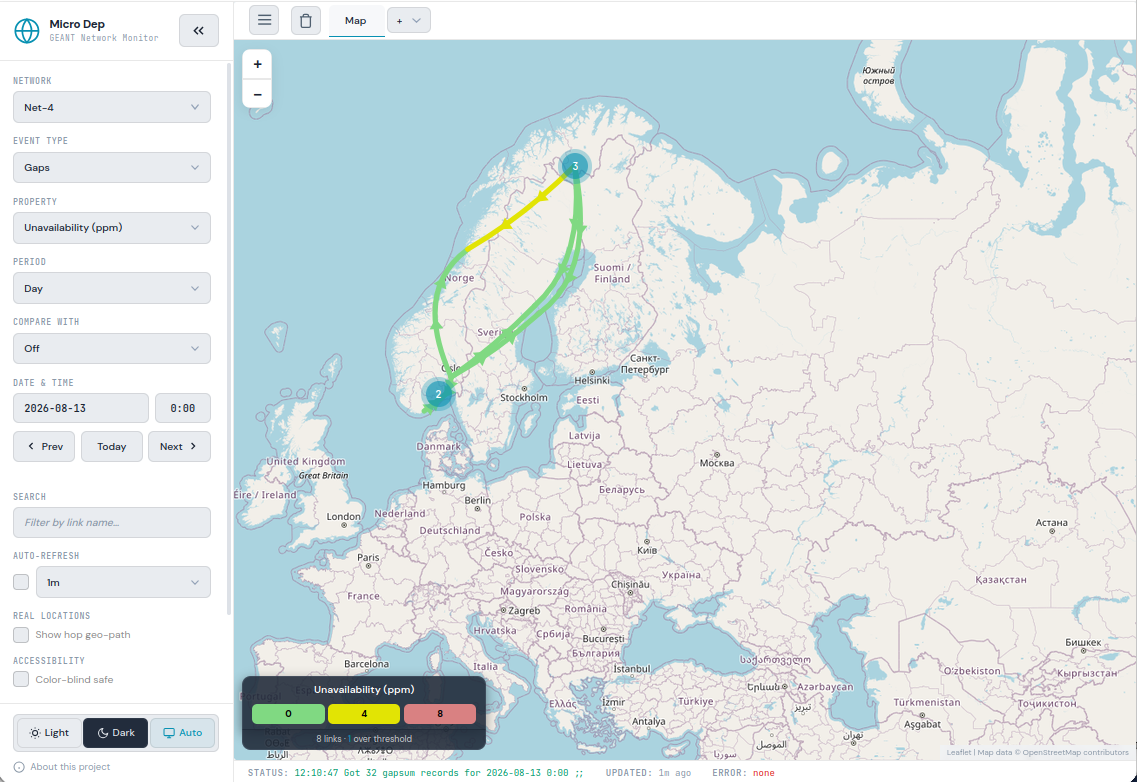
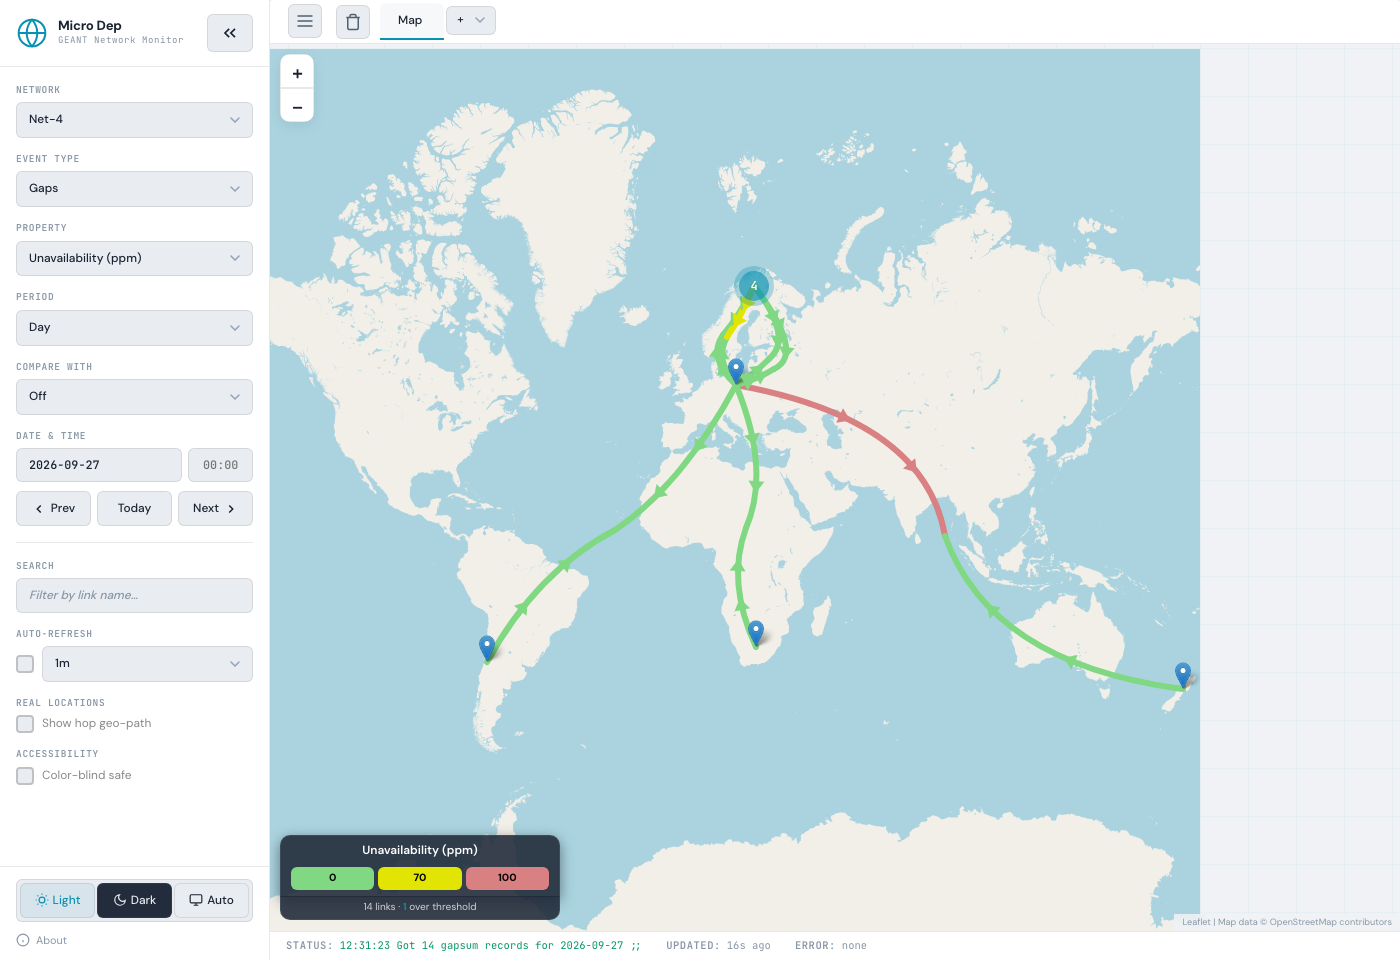
Microdep add-on: document the traceroute viewer as it stands, with new images
The viewer section still described four tabs and a legend that counted
observations. It now has six tabs, colour means the minimum round-trip
time a hop adds, and the shading that used to carry frequency has moved
to line width.

- Paths and Timeline, the two views added since the section was
  written, each get their own part, as does opening the viewer for a
  whole testpoint rather than one flow.
- Topology gains its layered layout, the grouped control column and the
  simple-view filtering that no longer cuts the graph in two.
- The conventions the views share - what colour and width mean, and what
  Full / Simple filters out - are stated once, above the tabs.

All images are retaken from a host measuring seven peers on four
continents, so the map shows a meshed topology with testpoints at their
real locations rather than a single country, and the viewer images show
the current interface.

diff --git a/addon_microdep.rst b/addon_microdep.rst
@@ -342,6 +342,8 @@ Testpoint hosts are place at their geo-coordinates (when available), and grey li
 
 Note that a flow line only indicates direction and endpoints of measurements. If the *show hop geo path* box is ticked in the navigation bar the map makes an attempt at drawing the actual geographic route taken by the flows.
 
+Clicking a testpoint rather than a flow line offers *Routes to all peers*, which opens the traceroute viewer for every flow from that host at once (see :ref:`addon_microdep_traceroute-tree`).
+
 .. _addon_microdep_summary-popup: 
 
 Summary popup window
@@ -374,44 +376,109 @@ Available tabs are:
   * **Missing**: Presents a table of flow peers where results from only one direction are reported. Note, this feature assumes that symmetric measurements are desired.
   * **Asymmetry**: Presents a table of *to-form* and *from-to* property values of the selected property together for comparison. 
   * **Summary**: Presents a table with all properties of selected event type for all flows in the topology, i.e. the same values available in *Link Detail* popup windows, but for all flows in one table.
-  * **Routes**: Opens a *Traceroute viewer* where collections of traceroutes for selected flows may be inspected. See :ref:`addon_microdep_traceroute-viewer`.
+  * **Routes**: Opens a *Traceroute viewer* where collections of traceroutes for selected flows may be inspected, one flow at a time or several at once. See :ref:`addon_microdep_traceroute-viewer`.
 
-.. _addon_microdep_traceroute-viewer: 
+.. _addon_microdep_traceroute-viewer:
 
 Traceroute viewer
 ^^^^^^^^^^^^^^^^^
 
 A graphical traceroute viewer is available to visualize and study the network topology being measured. To access the viewer either
+
   * Access *Link details* by clicking a flow line in the map and then the *Routes* button.
   * Select *Routes* in the tab menu (upper left corner) and then select which flow (peer) to visualize.
+  * Click a testpoint in the map and select *Routes to all peers* to see every route from that host at once (see :ref:`addon_microdep_traceroute-tree`).
 
-The viewer has its own tabs, a *Topology* tab, a *Hop stats* tab, a *Traceroute* tab and a *Docs* tab.
+The viewer has its own tabs: a *Topology* tab, a *Paths* tab, a *Timeline* tab, a *Hop stats* tab, a *Traceroute* tab and a *Docs* tab. The viewer opens on *Paths*, and the tab you leave it on is remembered for the next flow you open.
+
+All the views share two conventions. Line colour is the *minimum round-trip time the hop adds*, i.e. how much further away the next host is, on a log scale in the three bands hop lengths naturally fall into: below 1 ms for access networks, 1 to 10 ms for a core, above 10 ms for long haul. Line width is the number of traceroutes that took that link. A *Full* / *Simple* switch is available in the *Paths* and *Timeline* tabs, and as a pair of buttons in the *Topology* tab: *Simple* drops the hops that never answered and any host that answers again at the very next hop.
+
+Paths
+"""""
+
+.. image:: images/addon_microdep_traceroute-paths.png
+        :target: _images/addon_microdep_traceroute-paths.png
+        :scale: 20 %
+
+The **Paths** tab (image above) lays every traceroute of the period out by hop: one lane per hop number, the hosts seen at that hop side by side in the lane, and a ribbon between lanes for each link. The width of a ribbon is the number of traceroutes that took it, so the route most traffic follows is simply the thickest band, and the alternatives peel off and rejoin around it. Unlike the force-directed *Topology* view the drawing is deterministic: the same data always produces the same picture.
+
+A *latency profile* stands beside the diagram on the same lanes, showing the median round-trip time per hop on a log scale, with the dominant route accented, the other routes in grey and the minimum to maximum of all traces shaded behind them. Below the two charts a table lists the distinct routes of the period with their share of the traces, their length, the hop at which each leaves the dominant route, and the round-trip time at the end. Clicking a row isolates that route in the diagram.
+
+The control bar offers
+
+  * **Flow**: *Down* lays the path out top to bottom, which reads like the traceroute listing itself and leaves room for a full host name beside every node. *Across* lays it out left to right, showing the whole path in one glance, with names in alternating rows tied to their node by a leader line.
+  * **Detail**: *Full* or *Simple* filtering, as described above.
+  * **Hops**: *Compact* folds a run of hops with no branching into a single segment labelled with its length and the latency it adds; click a segment to open it. *Every hop* shows them all.
+  * **Routes**: how many of the distinct routes the table and the diagram highlight.
+
+Timeline
+""""""""
+
+.. image:: images/addon_microdep_traceroute-timeline.png
+        :target: _images/addon_microdep_traceroute-timeline.png
+        :scale: 20 %
+
+The **Timeline** tab (image above) lays the same traceroutes out by time instead of by hop: one column per traceroute, or per time bin when there are more than fit. Three bands share the time axis.
+
+  * A **route barcode** across the top, coloured by which route each traceroute took, with runs of the same route merged into one block. A change of route, and how long it held, is a change of colour.
+  * A **hop by time heatmap**, one row per host of the reference route, labelled with the hop numbers at which that host is seen. Cell colour is how far above its own minimum for the period the hop's round-trip time was, so a hop that starts queueing changes colour in its row at that moment. Hatching marks a different host than the reference one at that hop, and grey means no reply.
+  * The **round-trip time to the last responding hop** over the period.
+
+Hovering a column reports the time, the route and the hop under the pointer; clicking one isolates that route in the *Paths* tab. *Only changing* limits the rows to the hops where the host changes or the latency moves by a millisecond or more.
+
+Topology
+""""""""
 
 .. image:: images/addon_microdep_traceroute-topo.png
         :target: _images/addon_microdep_traceroute-topo.png
         :scale: 20 %
 
-The **Topology** tab (image above) shows a graph based visualization of all traceroutes seen in the selected time period. Each circle represents unique router/host observations and each arrow represents an assumed link between two hosts.
+The **Topology** tab (image above) shows a graph based visualization of all traceroutes seen in the selected time period. Each circle represents unique router/host observations and each arrow represents an assumed link between two hosts. Circles with a * prefixed by a number N indicate a non-responsive host seen at hop N. The source host of the measurement is marked in green and the destination in amber; a host that ended a traceroute short of the destination keeps a red border.
 
-Circles with a * prefixed by a number N indicates a non-responsive host seen at hop N. A green circle labeled *start* represents the source host for the traceroute measurement.
+Shading of the circles indicates how frequently a host was observed, darker meaning more frequent. Arrow colour and thickness carry the two conventions described above, and the scale to the right of the graph maps colour to the minimum round-trip time a hop adds.
 
-Darkness of color and thickness of lines indicate how frequently a host or link is observed (darker/thicker => more frequent). Legends for the coloring are available to the right indicating number of observations given a color.
+The control column to the right is grouped by what its buttons do.
 
-A control bar is also available to the right to allow some topology layout manipulations. When a circle is clicked a *Router Details* popup window appears presenting observation statistics and other details of the host/router selected.
+  * **Size**: hand the graph the whole screen, or the whole tab.
+  * **Detail**: *Simple* or *Full* filtering. Where *Simple* drops a host, the surviving neighbours are linked directly by a dashed line, so removing a host never cuts the graph in two.
+  * **Layout**: *Layered* places every host in the row of its hop, top down, ordered within the row by where its links come from. No physics is involved, so the drawing is the same on every reload and a long path reads as the chain it is; hosts can still be dragged aside where a row is crowded. *Free* is the force-directed layout, which finds its own shape.
+  * **Forces**, which apply to the free layout only: hold the layout still, let it settle again, or let every link ask for a length matching the minimum round-trip time its hop adds, so the routers of one site gather and the long haul hops stretch.
+  * **Legend**: the colour scale.
+
+Clicking a circle opens a *Router Details* window with observation statistics and other details of the host selected. The arrow keys pan the graph, and scroll the *Paths* and *Timeline* charts, whenever one of these views is on screen.
+
+.. _addon_microdep_traceroute-tree:
+
+Every route from one host
+"""""""""""""""""""""""""
+
+.. image:: images/addon_microdep_traceroute-tree.png
+        :target: _images/addon_microdep_traceroute-tree.png
+        :scale: 20 %
+
+The same viewer can be opened for a whole testpoint rather than a single flow, by clicking a testpoint in the map and selecting *Routes to all peers*, or by ticking flows in the *Peers* list and pressing *Show selected*. Every traceroute the host ran in the period is then drawn as one picture (image above): the hops the routes share merge into a trunk, the peers are the leaves, and each leaf takes the colour its flow line has in the map for the property currently selected in the navigation bar. It shows at a glance which shared hop sits behind the trouble of several peers.
+
+In this mode the *Timeline* tab shows one row per peer rather than per hop, coloured either by the round-trip time to that peer above its minimum, or by which of the peer's routes was taken.
+
+Hop stats
+"""""""""
 
 .. image:: images/addon_microdep_traceroute-hops.png
         :target: _images/addon_microdep_traceroute-hops.png
         :scale: 20 %
 
-The **Hop stats** tab (image above) shows a table summary of all traceroute observations in the selected time period. Essentially the summary of all info available in popup windows in the *Topology tab*.
-		
+The **Hop stats** tab (image above) shows a table summary of all traceroute observations in the selected time period. Essentially the summary of all info available in popup windows in the *Topology* tab.
+
+Traceroute
+""""""""""
+
 .. image:: images/addon_microdep_traceroute-routes.png
         :target: _images/addon_microdep_traceroute-routes.png
         :scale: 20 %
 
 The **Traceroute** tab (image above) shows all unique traceroutes observed in selected time period including hop addresses, RTT values and a count for number of identical traceroutes seen. Empty rows imply a missing response for that hop. A collection of unique routes may be compared by checking boxes in the upper right corner of relevant routes followed by clicking *Compare*.
 
-There is also a time navigation bar in the lower part of the *Route* tab which enables movement in time to some degree. However, adjusting time period in the main navigation bar (left side) followed by re-opening traceroute views is recommended.
+There is also a time navigation bar in the lower part of the viewer which enables movement in time to some degree. However, adjusting time period in the main navigation bar (left side) followed by re-opening traceroute views is recommended.
 
 .. _addon_microdep_property-plots: 
 
